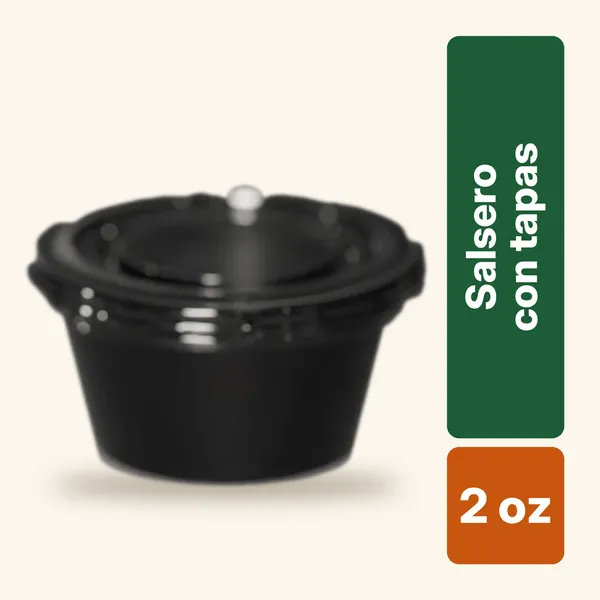
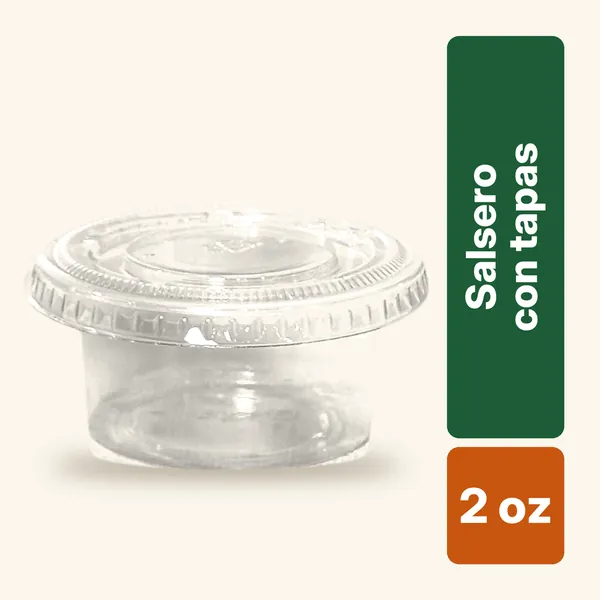
Catálogo: salsero 2 oz con la foto nítida del transparente; foto real del vaso copa 200 cc (VAS010)

Changed region(s): [[0.03, 0.3, 0.72, 0.84]]

diff --git a/carta/index.html b/carta/index.html
@@ -1422,7 +1422,7 @@ const LOCALES = {
       {cod:"ANT-VAS007",cat:"Vasos",nombre:"Vaso plástico 500 cc",detalle:"Precio por unidad",precio:45,retirado:true},
       {cod:"VAS024",cat:"Vasos",nombre:"Vaso polipapel 240 cc",detalle:"Precio por unidad",precio:100},
       {cod:"VAS001",cat:"Vasos",nombre:"Copa veneciana 350 cc",detalle:"Precio por unidad",precio:250,stock:322},
-      {cod:"VAS010",cat:"Vasos",nombre:"Vaso copa 200 cc",detalle:"Precio por paquete de 50 u",precio:2990,stock:1430},
+      {cod:"VAS010",cat:"Vasos",nombre:"Vaso copa 200 cc",detalle:"Precio por paquete de 50 u",precio:2990,stock:1430,foto:"../img/productos/fotos/VAS010.webp"},
       {cod:"VAS023",cat:"Vasos",nombre:"Vaso polipapel 290 cc 10 oz",detalle:"Precio por unidad",precio:100},
       {cod:"VAS003",cat:"Vasos",nombre:"Vaso 300 cc Vanni",detalle:"Precio por unidad · paquete de 50 u",precio:38,upp:50,stock:2600},
       {cod:"VAS022",cat:"Vasos",nombre:"Vaso polipapel 8 oz",detalle:"Precio por unidad",precio:100,stock:550},

diff --git a/CLAUDE.md b/CLAUDE.md
@@ -196,7 +196,7 @@ David no quiere que la dirección diga «jefatura»; eligió **avicolasb.com**, 
 
 - **Envases transparentes fotografiados por David sobre fondo azul** (17/11/2026): `herramientas/fotos/transparente.py <config.json>` (config: foto, polígono aproximado del producto, salida y `brillo` opcional). Hace GrabCut desde el polígono, trata la tela beige como fondo y, dentro del producto, pone blanco hueso × (luz de la foto / luz del fondo): el plástico queda transparente y neutro, sin azul. Después se etiqueta con el diseño de siempre (fondo liso). Primera: cúpula kuchen chico PLA020 (3 fotos). Las fotos que David manda mientras estoy trabajando NO quedan guardadas como archivo; hay que pedirle que las mande en un mensaje nuevo (o en una carpeta).
 - **Vasos opacos (papel, plumavit) sobre fondo azul** (17/11/2026): `herramientas/fotos/opaco.py <config.json>` (misma config: foto, polígono, salida). GrabCut que conserva el color y quita el reflejo azul del borde; sirvió para el vaso corrugado marrón 8 oz (VAS009). Si el producto es blanco sobre la tela clara (plumavit VAS020), GrabCut deja el borde serruchado: mejor medir los bordes contra la pared azul fila por fila y dibujar la silueta (elipse del labio, rectas de los lados, elipse de la base).
-- **Fotos borrosas de salseros** (17/11/2026): `transparente.py` acepta `"soloPoligono": true` (usa el polígono, con esquinas redondeadas, en vez de GrabCut) y `poli` como lista de polígonos (tapa + cuerpo medidos). Para producto negro con tapa transparente: `herramientas/fotos/negro.py foto config clave salida` (máscara por luminancia contra el fondo, gris neutro, `cuerpo` medido opcional para dejar fuera la sombra). Salsero 2 oz negro en POT018 y POT017; salsero 3,25 oz transparente en POT020 y POT019.
+- **Fotos borrosas de salseros** (17/11/2026): `transparente.py` acepta `"soloPoligono": true` (usa el polígono, con esquinas redondeadas, en vez de GrabCut) y `poli` como lista de polígonos (tapa + cuerpo medidos). Para producto negro con tapa transparente: `herramientas/fotos/negro.py foto config clave salida` (máscara por luminancia contra el fondo, gris neutro, `cuerpo` medido opcional para dejar fuera la sombra). Salsero 2 oz: David pidió la foto nítida del transparente (no la negra borrosa) en POT018 y POT017; salsero 3,25 oz transparente en POT020 y POT019 (foto algo borrosa, cambiar si manda otra). Vaso copa 200 cc VAS010 con silueta medida.
 - Bandeja/cúpula de pollo: ya es una sola tarjeta (PLA022 + su tapa TAP015, stock = el menor). El aviso ahora dice «Sin stock» si se acaba el envase y «Sin tapas en stock» si se acaba la tapa.
 
 ## Saco kraft: una tarjeta con cuadritos de tamaño (17/11/2026, pedido de David)
